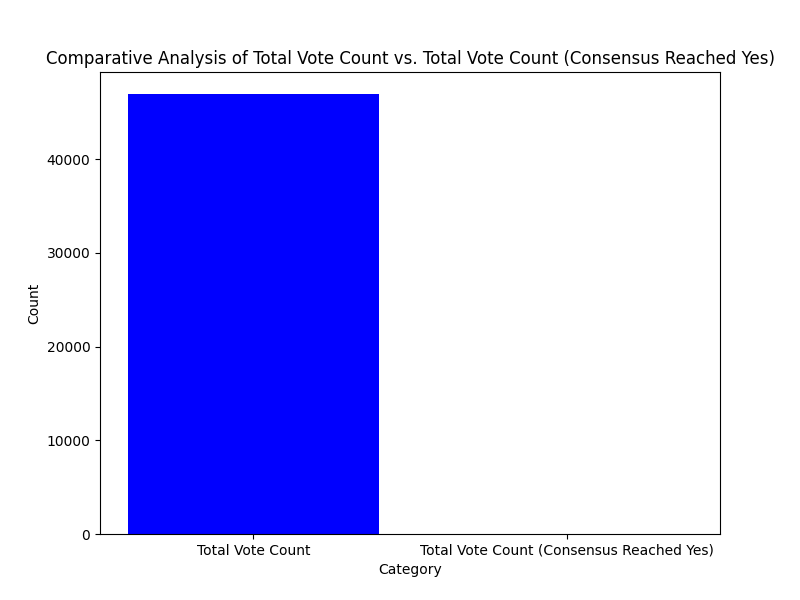
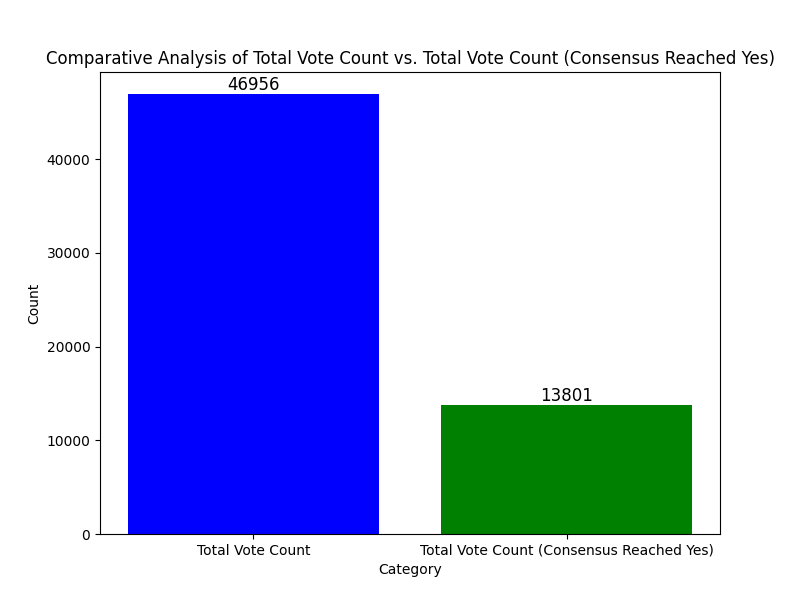
update the doc and consensus vote count

Changed region(s): [[0.5312, 0.63, 0.875, 0.9], [0.2812, 0.12, 0.3438, 0.15]]

diff --git a/plot/consensus_vote_count_plot.py b/plot/consensus_vote_count_plot.py
@@ -7,14 +7,14 @@ file_path = '../files/result.csv'
 # Read the CSV file into a DataFrame
 df = pd.read_csv(file_path)
 
-# Calculate the actual total Vote Count
+# Calculate the total Vote Count for all rows
 total_vote_count = df['Vote Count'].sum()
 
 # Filter the DataFrame to include only rows where 'Consensus Reached' is 'Yes'
 consensus_yes_df = df[df['Consensus Reached'] == 'Yes']
 
 # Calculate the total Vote Count when 'Consensus Reached' is 'Yes'
-consensus_yes_vote_count = consensus_yes_df['Vote Count'].sum()
+consensus_yes_vote_count = df[df['Consensus Reached'] == 'yes']['Vote Count'].sum()
 
 # Create a DataFrame for the comparative analysis
 comparison_data = pd.DataFrame({
@@ -22,12 +22,17 @@ comparison_data = pd.DataFrame({
     'Count': [total_vote_count, consensus_yes_vote_count]
 })
 
-# Plot the graph for comparison
+# Plot the graph as a bar chart with annotated values
 plt.figure(figsize=(8, 6))
-plt.bar(comparison_data['Category'], comparison_data['Count'], color=['blue', 'green'])
+bars = plt.bar(comparison_data['Category'], comparison_data['Count'], color=['blue', 'green'])
 plt.title('Comparative Analysis of Total Vote Count vs. Total Vote Count (Consensus Reached Yes)')
 plt.xlabel('Category')
 plt.ylabel('Count')
+
+# Annotate the values at the top of each bar
+for bar in bars:
+    yval = bar.get_height()
+    plt.text(bar.get_x() + bar.get_width() / 2, yval, int(yval), ha='center', va='bottom', fontsize=12)
 
 # Save the graph as an image
 plt.savefig('../images/vote_count_comparison.png')

diff --git a/data-interpretation.md b/data-interpretation.md
@@ -42,7 +42,7 @@ The plot allows you to visually compare these two categories of vote counts. It'
 
 This information is useful for understanding the impact of 'Consensus Reached' on the total vote count 
 
-The above plot shows that the total number of vote count is greater than the aggregate consensus vote count.
+The above plot shows that the total number of vote count is greater than the aggregate consensus vote count. Only about 10% of the vote count submitted will be taken into consideration as those were the vote count that reached consensus.
 
 ## Officials in agreement compared with total officials
 **Fig 3** Officials in Agreement vs Total Officials
